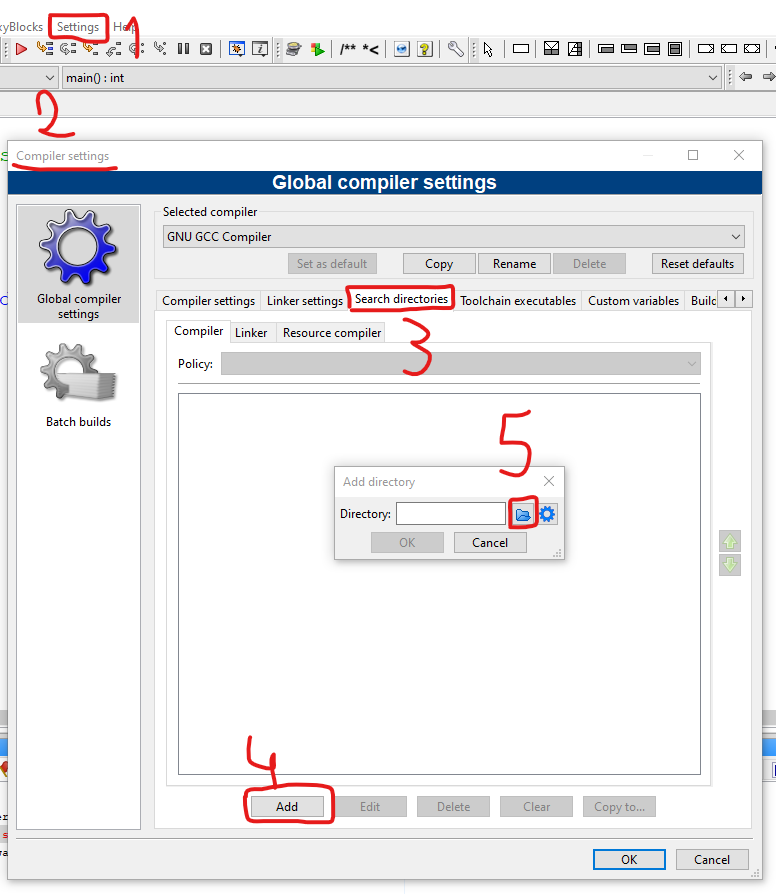
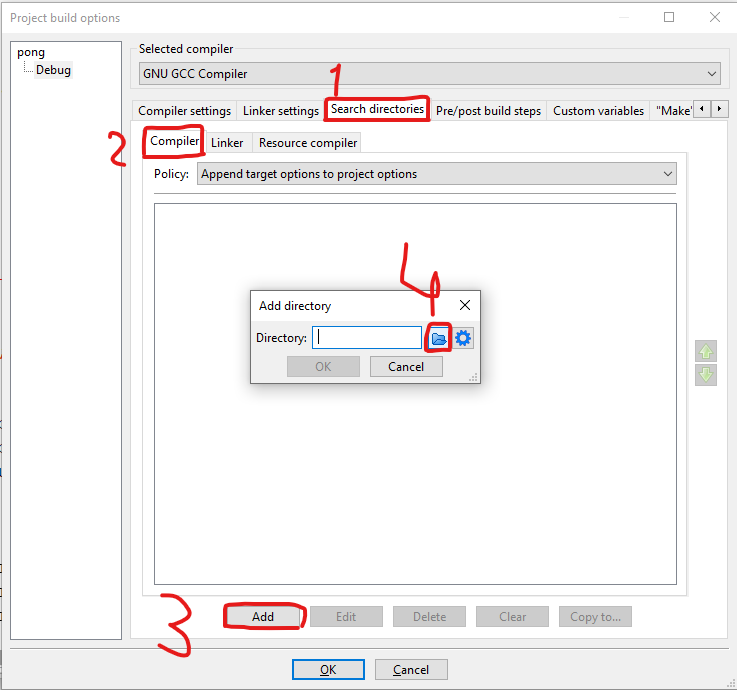
Refăcut pașii pentru adăugat biblioteci externe
Înainte erau setări la nivel global, ceea ce făcea ca toate
celelalte proiecte să nu mai funcționeze.

Changed region(s): [[0.0, 0.0, 1.0, 1.0]]

diff --git a/libs/README.md b/libs/README.md
@@ -58,7 +58,11 @@ Programul "doarme" timp de o secundă, iar apoi afișează un mesaj. Dacă înce
 
 ![](img/missing_header.png)
 
-Trebuie să îi spunem compilatorului unde găsește aceste fișiere header: `Settings`->`Compiler...`->`Search directories`->`Add`:
+Trebuie să îi spunem compilatorului unde găsește aceste fișiere header: click dreapta pe proiect, `Build options`:
+
+![](img/project_settings.png)
+
+Apoi `Search directories`->`Compiler`->`Add`:
 
 ![](img/add_header_path1.png)
 
@@ -66,7 +70,9 @@ Calea va fi folderul `include` din folderul `CSFML-2.5` (care se află în `ext`
 
 ![](img/add_header_path2.png)
 
-După aceea, dăm pe butoanele de `ok`. Pentru a verifica dacă am pus calea corect, încercăm să compilăm. Vom primi un mesaj de eroare, însă este altă eroare 😄
+După aceea, dăm pe butoanele de `ok`. Dacă întreabă, putem să îi spunem să pună calea relativă. Pentru a verifica dacă am pus calea corect, încercăm să compilăm. Vom primi un mesaj de eroare, însă este altă eroare 😄
+
+![](img/relative_path.png)
 
 ![](img/undefined_sleep.png)
 
@@ -74,9 +80,11 @@ Totuși, ca să verificăm ce cale a fost setată, ne putem uita pe tab-ul `Buil
 
 ![](img/add_header_path3.png)
 
+Dacă ați selectat calea relativă, veți vedea `-Iext\CSFML-2.5\include`.
+
 Dacă după acest pas nu primiți sugestii în editor (cu <kbd>Ctrl</kbd>+<kbd>Space</kbd>), atunci click dreapta pe proiect și `Reparse this project`.
 
-Acum trebuie să rezolvăm eroarea cu `undefined` ceva. I-am spus compilatorului unde să găsească fișierele header, însă acelea conțin doar niște declarații. Trebuie să spunem și unde este implementarea: `Settings`->`Compiler...`->`Linker settings`->`Add`. Vom adăuga fișierele din folderul `lib` (subfolderul `gcc` deoarece folosim compilatorul GCC) din CSFML. Pentru programul demo de mai sus ar fi necesar doar `libcsfml-system`, însă pentru simplitate le vom adăuga pe toate:
+Acum trebuie să rezolvăm eroarea cu `undefined` ceva. I-am spus compilatorului unde să găsească fișierele header, însă acelea conțin doar niște declarații. Trebuie să spunem și unde este implementarea. La fel ca mai devreme, click dreapta pe proiect, `Build options`, apoi `Linker settings`->`Add`. Vom adăuga fișierele din folderul `lib` (subfolderul `gcc` deoarece folosim compilatorul GCC) din CSFML. Pentru programul demo de mai sus ar fi necesar doar `libcsfml-system`, însă pentru simplitate le vom adăuga pe toate:
 
 ![](img/add_static_libs.png)
 
@@ -94,7 +102,7 @@ Trebuie să copiem în folderul `bin\Debug` (creat de Code::Blocks) fișierele `
 
 După acest pas, lucrurile par să meargă. Dacă totuși apar probleme, o primă soluție este să compilăm noi și biblioteca externă. Dacă nici asta nu reușește, încercăm să folosim alt compilator și apoi reluăm pașii discutați. De obicei, versiunile mai noi de compilatoare au mai puține bug-uri.
 
-⚠ Observație: pe repository-ul de pe github nu am adăugat bibliotecile externe, deoarece pot ocupa destul de mult spațiu. Le voi adăuga pentru proiectul demo final, însă aș vrea să fac asta folosind git-lfs și nu am apucat să îl configurez.
+⚠ Observație: pe repository-ul de pe github nu am adăugat bibliotecile externe, deoarece pot ocupa destul de mult spațiu. ~Le voi adăuga pentru proiectul demo final, însă aș vrea să fac asta folosind git-lfs și nu am apucat să îl configurez.~ Voi furniza direct fișierele binare în [această secțiune](https://github.com/mcmarius/prog-calc/releases).
 
 -----
 
